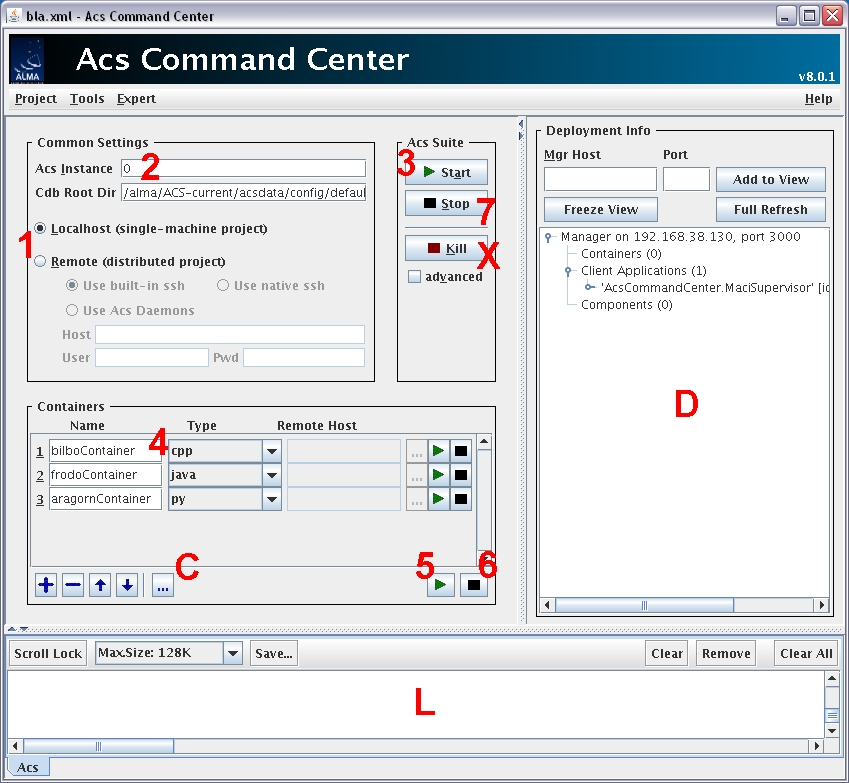
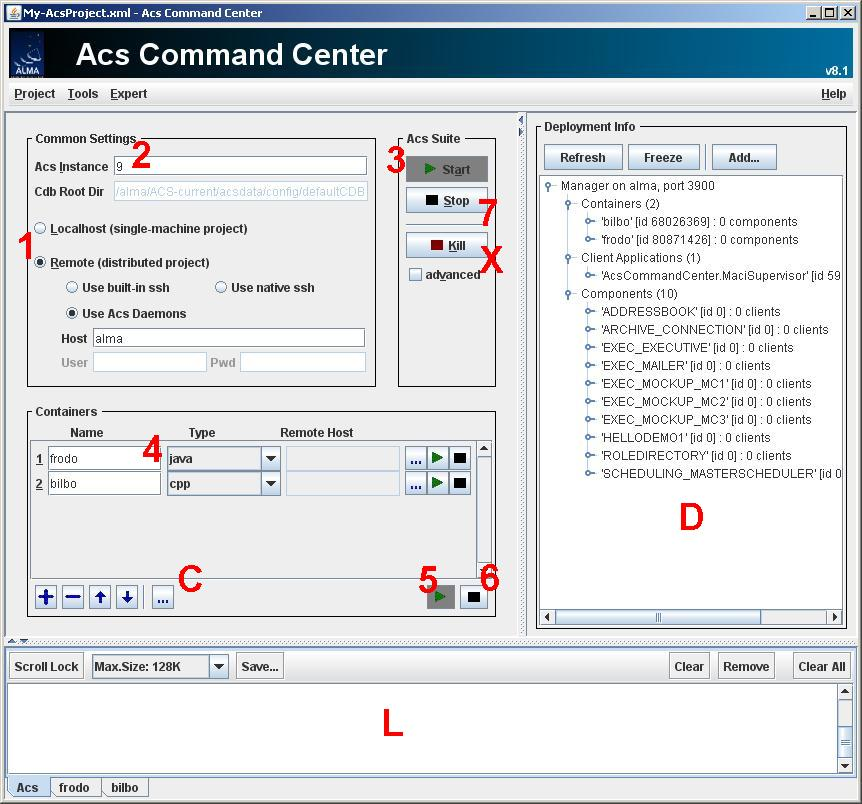
Updates for Acs8.1
git-svn-id: https://alma-svn.aoc.nrao.edu/p2/trunk/ACS@121989 523d945c-050c-4681-91ec-863ad3bb968a

diff --git a/Documents/ACSCommandCenter/Acs_Command_Center_-_User_Guide.html b/Documents/ACSCommandCenter/Acs_Command_Center_-_User_Guide.html
@@ -216,7 +216,7 @@ workers run on localhost.<br>
 <table border="0" cellpadding="2" cellspacing="2" width="100%">
 <tbody>
 <tr>
-<td valign="top"><img style="width: 840px; height: 765px;" src="images/figureC.jpg" alt="Figure C - Main Window"> <br>
+<td valign="top"><img style="width: 862px; height: 804px;" src="images/figureC.jpg" alt="Figure C - Main Window"> <br>
 </td>
 </tr>
 <tr align="center">
@@ -524,7 +524,7 @@ it will (hopefully) support you in tracking down failures.<br>
 <table border="0" cellpadding="2" cellspacing="2" width="100%">
 <tbody>
 <tr>
-<td valign="top"><img style="width: 338px; height: 185px;" src="images/figureE.jpg" alt="figure E - Progress Panel"> <br>
+<td valign="top"><img style="width: 335px; height: 171px;" src="images/figureE.jpg" alt="figure E - Progress Panel"> <br>
 </td>
 </tr>
 <tr>
@@ -543,25 +543,27 @@ Info View</a></h3>
 information about an
 Acs Manager and its related workers. When you start a Manager via the
 Acs Command Center, the Manager is automatically added
-to the Deployment Info View. Still, you can add any Manager manually
-provided you know which host and port it runs on: according to the Acs
-conventions, the port of a Manager is "3x00", where "x" is the Acs
-instance (0-9). Simply type in the Manager's host and port into the
-fields above the Deployment Info View and press the "Add to View"
-button.<br>
-<br>
+to the Deployment Info View.
+<br><br>
+Still, you can add any Manager manually,
+provided you know which host and Acs Instance it runs on. 
+Press "Add..." to bring up a dialog that lets you enter the network
+address of an existing Acs Manager. Network addresses are understood
+in a couple of formats: the easiest being the short notation "host:instance"
+(e.g. <i>alma:0</i> for Acs Instance 0 on host alma), or alternatively
+a corbaloc (e.g. <i>corbaloc::alma:3900/Manager</i> for Acs Instance 9 on host alma),
+or a full Corba IOR (like <i>IOR:&lt;really long hex number&gt;</i>).
+<br><br>
 The shown information will be refreshed automatically. Be aware that&nbsp;this automatism cannot detect all changes on the
 server-side instantaneously, in some situations there may be delays of about 10 seconds or more. To
-refresh the display manually, press the "Full Refresh" button. If,
-opposed to that, you're overwhelmed with data you can
-pause&nbsp;the
-automatic refresh through "Freeze View".<br>
+refresh the display manually, press the "Refresh" button. If, opposed to that, you're overwhelmed with data you can
+pause automatic refresh through "Freeze".
 <br>
 <br>
 <table border="0" cellpadding="2" cellspacing="2" width="100%">
 <tbody>
 <tr>
-<td valign="top"><img src="images/figureF.jpg" alt="Figure F - Deployment" style="width: 429px; height: 475px;" hspace="10"> <br>
+<td valign="top"><img src="images/figureF.jpg" alt="Figure F - Deployment" style="width: 418px; height: 394px;" hspace="10"> <br>
 </td>
 </tr>
 <tr>
@@ -657,21 +659,11 @@ The change log for the different versions is on the <a href="AcsCommandCenter-Ne
 <td align="center" valign="top"><code>Changes</code><br>
 </td>
 </tr>
+<tr><td>2009-12-21</td><td>Marcus Schilling</td><td>Adjusted to Acs8.1</td></tr><tr>
 <tr><td>2009-05-04</td><td>Marcus Schilling</td><td>Adjusted to Acs8.0.1</td></tr><tr>
-<td>2008-10-28</td>
-<td>Marcus Schilling</td>
-<td>Adjusted to Acs8.0</td>
-</tr>
-<tr>
-<td>2007-02-09</td>
-<td>Marcus Schilling</td>
-<td>Adjusted to Acs6.0</td>
-</tr>
-<tr>
-<td>2005-10-28</td>
-<td>Marcus Schilling</td>
-<td>Adjusted to Acs5.0</td>
-</tr>
+<td>2008-10-28</td><td>Marcus Schilling</td><td>Adjusted to Acs8.0</td></tr>
+<tr><td>2007-02-09</td><td>Marcus Schilling</td><td>Adjusted to Acs6.0</td></tr>
+<tr><td>2005-10-28</td><td>Marcus Schilling</td><td>Adjusted to Acs5.0</td></tr>
 <tr>
 <td style="vertical-align: top;">2005-07-26<br>
 </td>

diff --git a/Documents/ACSCommandCenter/AcsCommandCenter-News.html b/Documents/ACSCommandCenter/AcsCommandCenter-News.html
@@ -32,7 +32,16 @@ documentation</b></span><span style="font-size: 10pt;"><u1:p></u1:p><u6:p></u6:p
 <div> <a href="Acs_Command_Center_-_User_Guide.html"> &lt;&lt; User
 Guide - Acs Command Center </a></div>
 <br>
-<br><h2>Acs 8.0.1</h2>
+<br>
+
+<h2>Acs 8.1</h2>
+<h4>Container Settings</h4>
+<ul>
+<li>Heap size can now be specified in the details settings for a container. Note this is currently only respected by Java containers, and when the project is using Acs Daemons.</li>
+</ul>
+
+
+<h2>Acs 8.0.1</h2>
 <h4>Common Settings<br></h4>
 <ul><li>Added more&nbsp;explanatory texts in the Common Settings</li><li>The remote variant ("Built-in ssh", "Native ssh", "Acs Daemons") is now stored as part of a Command Center project</li></ul><h4>Misc</h4><ul><li>The
 Progress Panel will no longer steal the focus from other applications,
@@ -271,7 +280,22 @@ First version ...<br>
       <td align="center" valign="top"><code>Changes</code><br>
       </td>
     </tr>
-    <tr><td>2009-05-04</td><td>Marcus Schilling</td><td>Updated to Acs8.0.1</td></tr><tr><td>2008-10-28</td><td>Marcus Schilling</td><td>Updated to Acs8.0</td></tr><tr>
+    <tr>
+       <td>2009-12-21</td>
+       <td>Marcus Schilling</td>
+       <td>Updated to Acs8.1</td>
+    </tr>
+    <tr>
+       <td>2009-05-04</td>
+       <td>Marcus Schilling</td>
+       <td>Updated to Acs8.0.1</td>
+    </tr>
+    <tr>
+       <td>2008-10-28</td>
+       <td>Marcus Schilling</td>
+       <td>Updated to Acs8.0</td>
+    </tr>
+    <tr>
       <td>2007-02-09</td>
       <td>Marcus Schilling</td>
       <td>Updated to Acs6.0.2</td>
